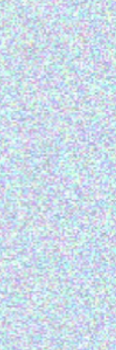
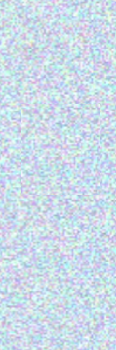
fixings initial jump to loading page

Changed region(s): [[0.181, 0.2857, 0.8793, 0.5714]]

diff --git a/app/components/7cta/BookingCtaBar.tsx b/app/components/7cta/BookingCtaBar.tsx
@@ -3,7 +3,7 @@ import Link from "next/link";
 export default function MembershipCtaBar({
   eyebrow = "MEMBERSHIP",
   title = "BECOME PART OF THE CUCCIOLINO COMMUNITY",
-  subtitle = "Get a discount every time we visit us",
+  subtitle = "Get a discount every time you visit us",
   buttonLabel = "Join Us",
   href = "/membership",
 }: {
@@ -20,7 +20,7 @@ export default function MembershipCtaBar({
           mx-auto max-w-7xl
           px-4 sm:px-6 lg:px-8
           py-10 md:py-10
-          md:ml-50
+          md:ml-40 ml-0
         "
       >
         <div className="flex flex-col gap-6 lg:flex-row">
@@ -31,14 +31,14 @@ export default function MembershipCtaBar({
             </span>
 
             {/* H2 + CTA */}
-            <div className="flex flex-col md:flex-row md:items-center md:gap-6">
+            <div className="flex flex-col md:flex-row md:items-center items-start md:gap-6">
               <h2
                 className="
                   text-white font-oswald font-bold uppercase
                   leading-[1.05]
                   text-2xl sm:text-3xl md:text-[3rem]
                   md:scale-y-[1.25]
-                  md:mr-20
+                  md:ml-0 ml-0
                 "
               >
                 {title}
@@ -47,20 +47,21 @@ export default function MembershipCtaBar({
               <Link
                 href={href}
                 className="
-                  mt-5 md:mt-0
-                  inline-flex items-center justify-center
-                  rounded-md
-                  border-4 border-white
-                  text-white
-                  px-6 sm:px-10 md:px-12
-                  py-3 md:py-2
-                  font-sofiapro
-                  text-xl sm:text-2xl md:text-3xl
-                  hover:bg-white hover:text-[#ef4136]
-                  transition
-                  whitespace-nowrap
-                  w-full sm:w-auto
-                "
+    mt-5 md:mt-0
+    flex items-center justify-center
+    rounded-md
+    border-4 border-white
+    text-white
+    px-6 sm:px-10 md:px-12
+    py-3 md:py-2
+    font-sofiapro
+    text-xl sm:text-2xl md:text-3xl
+    hover:bg-white hover:text-[#ef4136]
+    transition
+    w-[72%]      /* 👈 CAMBIA QUESTO NUMERO */
+    mr-auto      /* ✅ attaccato a sinistra su mobile */
+    md:w-auto
+  "
               >
                 {buttonLabel}
               </Link>

diff --git a/app/splashScreen.tsx b/app/splashScreen.tsx
@@ -46,8 +46,18 @@ export default function SplashScreen({
         backgroundColor: "#000",
       }}
     >
-      {/* sfondo brand */}
-      <div className="absolute inset-0 bg-[#cadcf2]" />
+      {/* sfondo brand (pattern meno luminoso) */}
+      <div
+        className="absolute inset-0"
+        style={{
+          backgroundImage: `
+            linear-gradient(rgba(202,220,242,0.45), rgba(202,220,242,0.45)),
+            url('/iconsss/picsAzzurra2.png')
+          `,
+          backgroundRepeat: "repeat",
+          backgroundSize: "auto",
+        }}
+      />
 
       {/* CONTENUTO CENTRALE */}
       <div className="relative z-10 flex flex-col items-center translate-y-40 sm:translate-y-52">

diff --git a/app/components/5breakfast-brunch/BreakfastBrunchSection.tsx b/app/components/5breakfast-brunch/BreakfastBrunchSection.tsx
@@ -122,7 +122,11 @@ export default function BreakfastBrunchSection() {
                 SPECIALS
               </h2>
 
-              <p className="mt-6 md:mt-10 text-[#2e3192] font-sofiapro leading-tight text-lg sm:text-xl md:text-xl max-w-[320px] sm:max-w-105">
+              <p
+                className="mt-6 md:mt-10 text-[#2e3192] font-sofiapro 
+              leading-tight text-lg sm:text-xl md:text-2xl max-w-[320px] sm:max-w-105  md:max-w-200"
+              >
+                {/* font-medium  */}
                 Transport yourself to the <br />
                 sun-kissed shores of <br />
                 the Mediterranean <br />

diff --git a/app/components/6lunch-dinner/LunchDinnerSection.tsx b/app/components/6lunch-dinner/LunchDinnerSection.tsx
@@ -152,13 +152,14 @@ export default function LunchDinnerSection() {
                 className="
                 mt-6 md:mt-10
                 text-[#2e3192]
-                font-medium
+                font-sofiapro
                 leading-tight
                 text-lg sm:text-xl md:text-2xl
                 max-w-[320px]
                 sm:max-w-105
                 md:max-w-200
-              "
+                "
+                // font-medium
               >
                 Get the best tasty <br />
                 food experience <br />

diff --git a/app/page.tsx b/app/page.tsx
@@ -212,6 +212,7 @@ export default function Home() {
             image4="/iconss/pizza8.png"
           />
           {/* MEMBERSHIP */}
+          
           <BookingCtaBar />
           {/* SOCIAL SECTIONS */}
           <SocialsSection />
